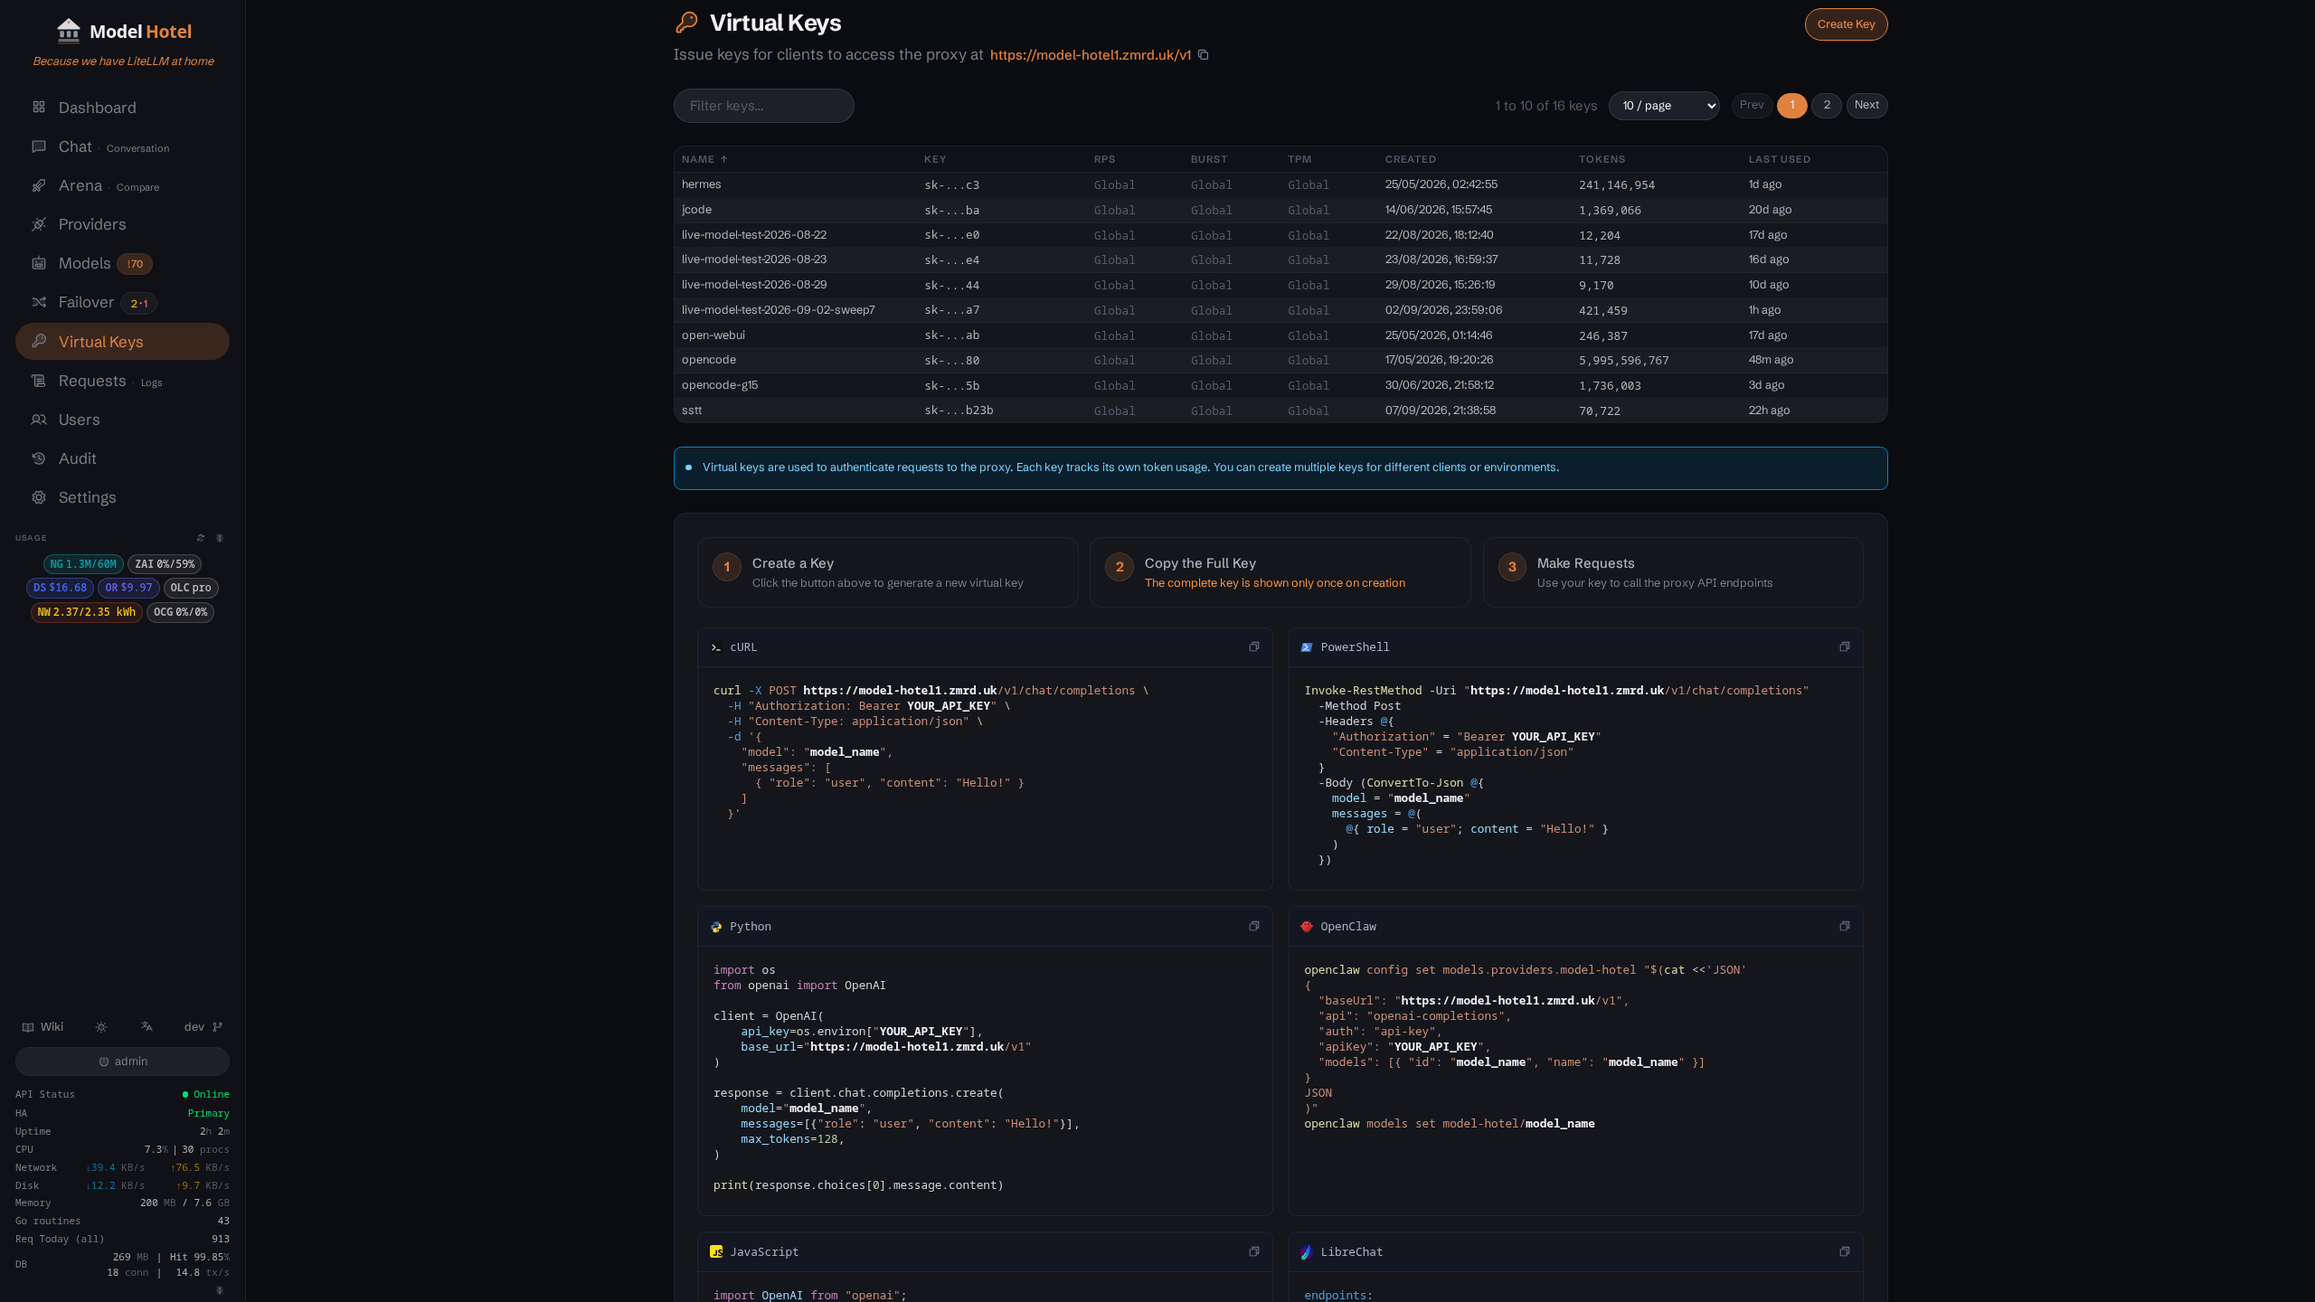
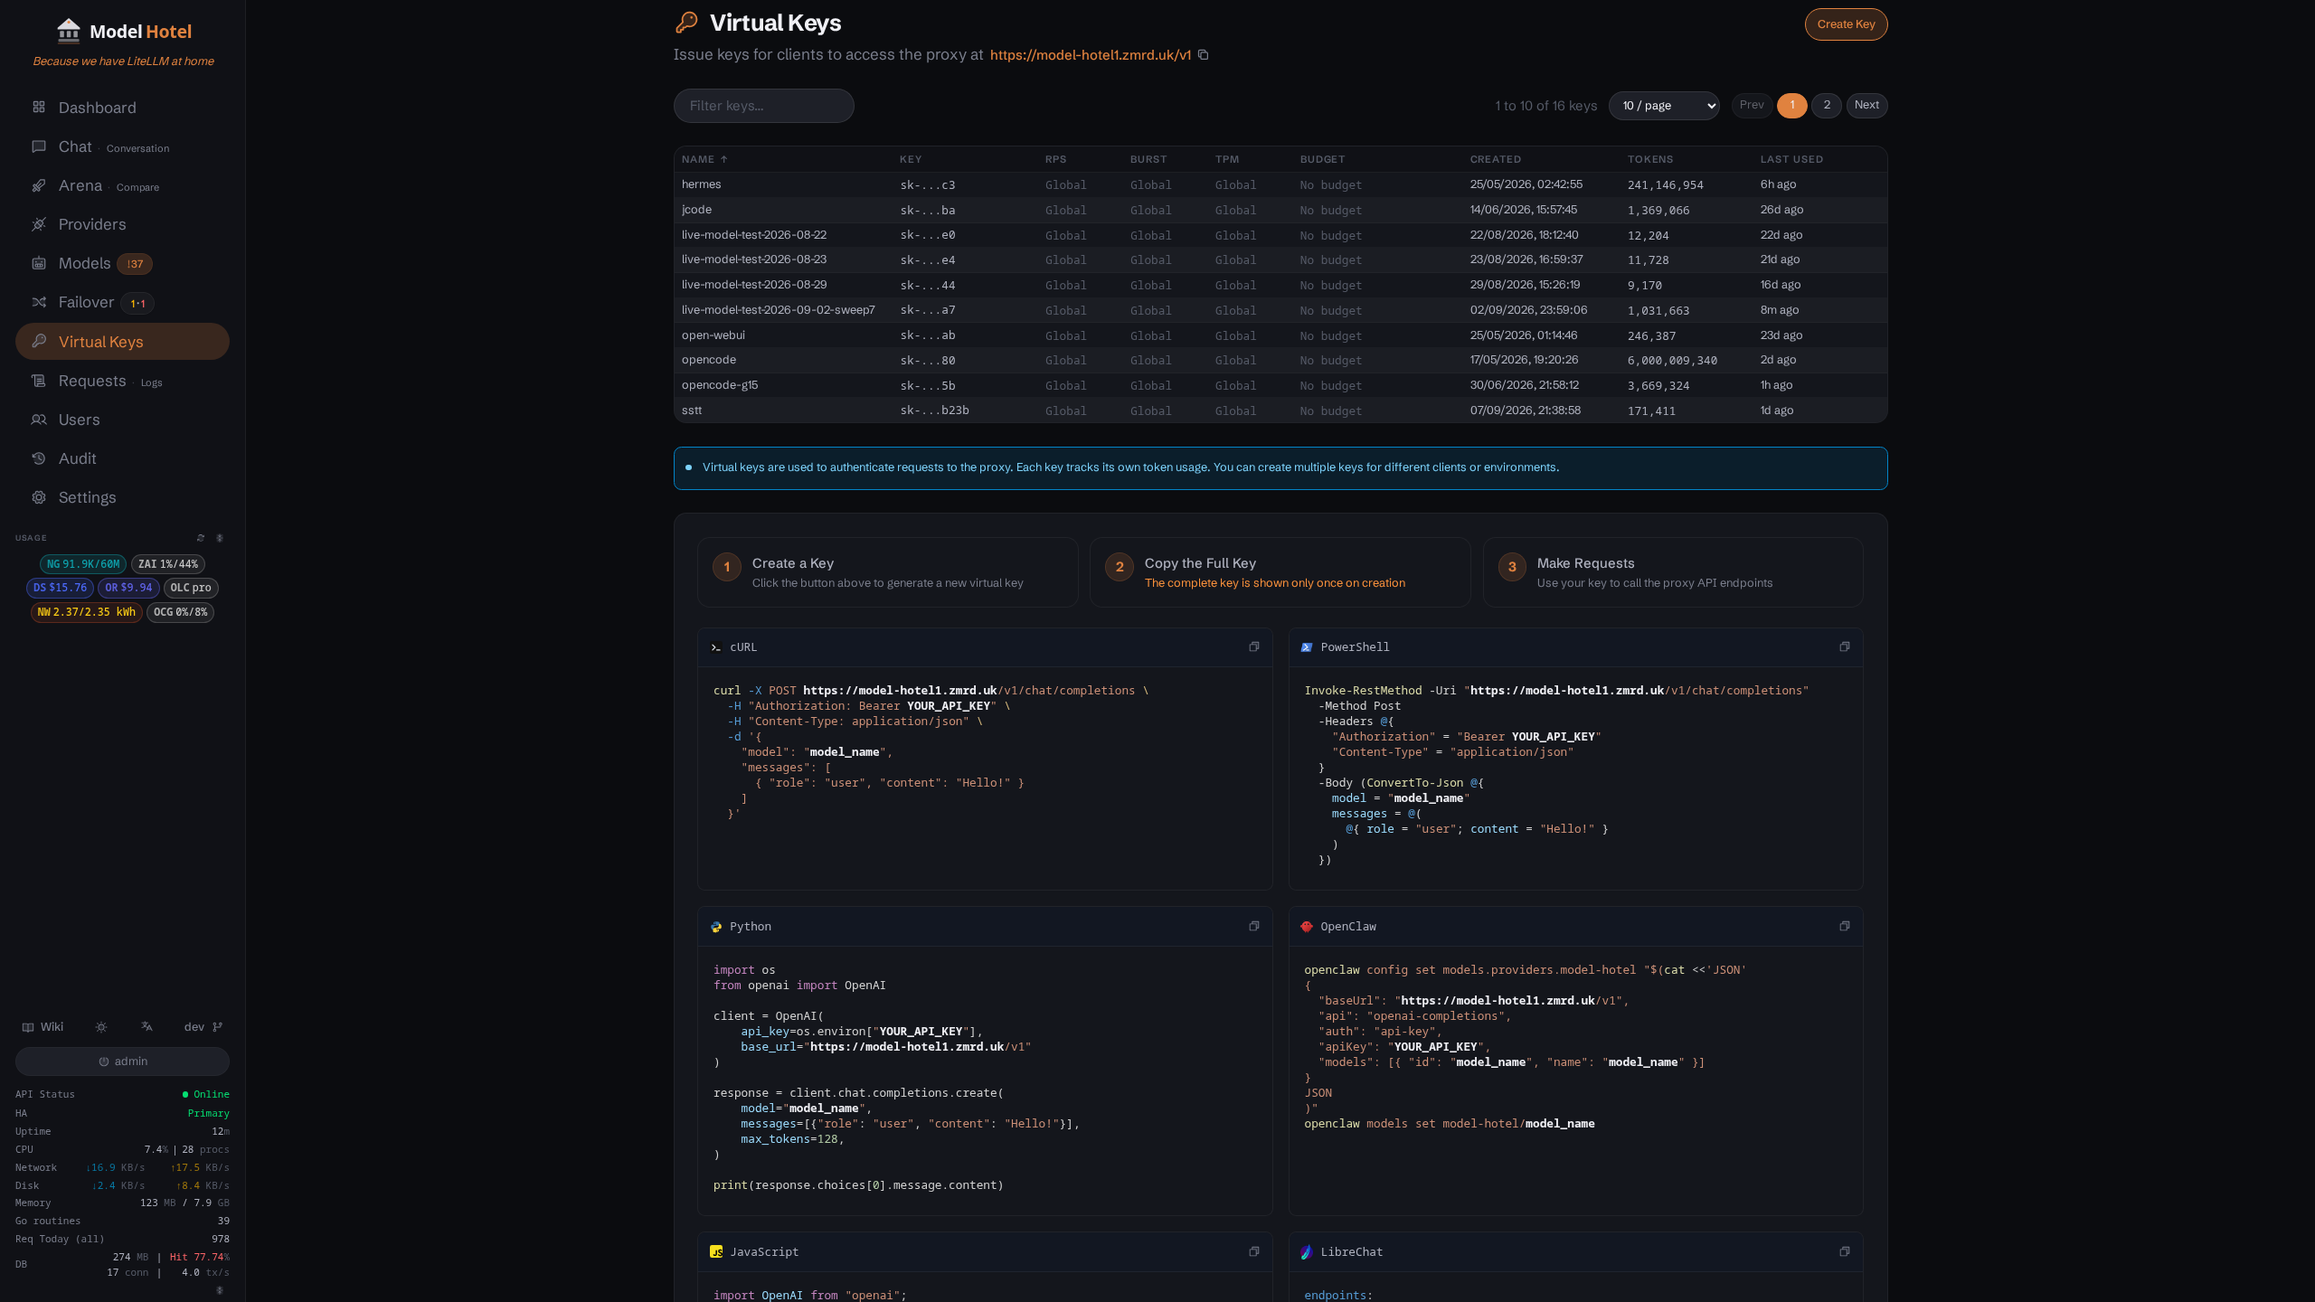
fix(web): size the keys table's budget column; document spend and budgets; show the OpenCode Go quota panel
The virtual keys table is fixed-layout inside a clipping card and its
colgroup stopped at eight columns, so the ninth (last used) fell off the
right edge once the budget column landed. A test now pins one col per
header summing to 100%. README and the Request-Logging wiki gain the
dashboard's spend view and the budgets; the NeuralWatt quota panel gives
way to OpenCode Go (NeuralWatt is scheduled off); logs, dashboard and
keys screenshots reshot.

diff --git a/web/src/pages/VirtualKeys/index.tsx b/web/src/pages/VirtualKeys/index.tsx
@@ -214,15 +214,19 @@ export function VirtualKeys() {
 			{sortedKeys.length > 0 ? (
 				<div ref={wheelPagingRef} className="ui-card overflow-hidden">
 					<table className="w-full table-fixed ui-table">
+						{/* One col per header, summing to 100%: the table is fixed-layout
+						    inside an overflow-hidden card, so a column without a col
+						    is squeezed off the right edge rather than scrolled to. */}
 						<colgroup>
-							<col className="w-[20%]" />
-							<col className="w-[14%]" />
-							<col className="w-[8%]" />
-							<col className="w-[8%]" />
-							<col className="w-[8%]" />
-							<col className="w-[16%]" />
-							<col className="w-[14%]" />
+							<col className="w-[18%]" />
 							<col className="w-[12%]" />
+							<col className="w-[7%]" />
+							<col className="w-[7%]" />
+							<col className="w-[7%]" />
+							<col className="w-[14%]" />
+							<col className="w-[13%]" />
+							<col className="w-[11%]" />
+							<col className="w-[11%]" />
 						</colgroup>
 						<thead>
 							<tr>

diff --git a/web/src/pages/VirtualKeys/__tests__/VirtualKeys.table.test.tsx b/web/src/pages/VirtualKeys/__tests__/VirtualKeys.table.test.tsx
@@ -740,6 +740,26 @@ describe("VirtualKeys", () => {
 });
 
 describe("Sort resets page", () => {
+	it("sizes every column, so none is squeezed off the fixed-layout table", async () => {
+		server.use(
+			http.get("/api/virtual-keys", () => HttpResponse.json([mockVirtualKey])),
+		);
+		renderWithProviders(<VirtualKeys />);
+		await waitFor(() => {
+			expect(screen.getByText("Test API Key")).toBeInTheDocument();
+		});
+		const table = screen.getByRole("table");
+		const cols = table.querySelectorAll("colgroup col");
+		const headers = table.querySelectorAll("thead th");
+		expect(cols).toHaveLength(headers.length);
+		const total = [...cols]
+			.map((c) =>
+				Number.parseFloat(c.className.match(/w-\[(\d+)%\]/)?.[1] ?? "0"),
+			)
+			.reduce((a, b) => a + b, 0);
+		expect(total).toBe(100);
+	});
+
 	it("resets to page 1 when sorting from page 2", async () => {
 		const keys = Array.from({ length: 25 }, (_, i) => ({
 			...mockVirtualKey,

diff --git a/README.md b/README.md
@@ -132,7 +132,7 @@ Provider health is tracked with a **circuit breaker**, keyed per (provider, mode
 After a cooldown period (default 60s), a single **HalfOpen** probe is allowed; if it succeeds the circuit closes. If it fails, the circuit re-opens with the cooldown doubled for every probe that has failed since it last closed, up to a ceiling (default 15 minutes; set the backoff limit to `0` to switch the doubling off). A circuit blocked by an exhausted provider quota is instead pinned until the quota window resets, up to a separate quota pin limit (default 24 hours, `0` to switch pinning off). State transitions are broadcast as SSE events, and the breaker can be disabled entirely in Settings. See [Failover and Hotel Routing](https://github.com/hugalafutro/model-hotel/wiki/Failover-and-Hotel-Routing) for the full breakdown.
 
 ### [<img src="docs/icons/virtualkeys.svg" width="20" height="20" style="vertical-align:middle;margin-right:6px;" alt=""> Per-Client Virtual Keys](#-per-client-virtual-keys)
-Issue separate API keys for different users or services. Each key is SHA-256 hashed before storage, so raw keys are never persisted. Track token usage per key, set per-key rate limits (requests/sec and burst) plus an optional tokens-per-minute (TPM) cap, restrict which providers a key may reach, delete a key to immediately cut off access, and never expose your real provider credentials. Keys can be created and deleted from the dashboard or the admin API.
+Issue separate API keys for different users or services. Each key is SHA-256 hashed before storage, so raw keys are never persisted. Track token usage per key, set per-key rate limits (requests/sec and burst) plus an optional tokens-per-minute (TPM) cap, give a key a dollar budget per day, week or month (requests are refused with `429` once the period's spend reaches it, and the key shows how much of it is used), restrict which providers a key may reach, delete a key to immediately cut off access, and never expose your real provider credentials. Keys can be created and deleted from the dashboard or the admin API.
 
 <p align="center">
  <img src="docs/screenshots/virtual_keys.png" alt="Virtual Keys" width="720">
@@ -161,6 +161,7 @@ Every request is logged with full latency decomposition:
 - **Total duration** (end-to-end wall time)
 - **Proxy overhead** split into request parsing, model/failover lookup, provider lookup, and key decryption
 - **Tokens per second**, prompt / completion counts
+- **Cost** in dollars, priced from the serving model's per-token prices (cache-hit tokens at the cache-hit price where the provider has one)
 
 <p align="center">
  <img src="docs/screenshots/logs.png" alt="Requests" width="720">
@@ -169,6 +170,14 @@ Every request is logged with full latency decomposition:
 </p>
 
 Streaming requests are captured as they start and updated as they finish, so you can see in-flight requests in the Logs view. The overhead breakdown helps you determine whether latency is coming from your provider or from the proxy itself.
+
+The Dashboard reads the same prices: its header toggles between tokens, requests and dollars (**T / R / $**), and in the `$` state the spend tile, the spend chart and the per-provider, per-model and per-key panels all show what the period cost. A model with no known prices meters at zero; the spend tile says how many requests went unpriced.
+
+<p align="center">
+ <img src="docs/screenshots/dashboard_spend.png" alt="Dashboard in its spend view" width="720">
+ <br>
+ <sub>Dashboard in the `$` state: spend per week, per provider, per model and per key</sub>
+</p>
 
 ### [<img src="docs/icons/discovery.svg" width="20" height="20" style="vertical-align:middle;margin-right:6px;" alt=""> Built-In Model Discovery](#-built-in-model-discovery)
 Add a provider and the service pulls the model list automatically via the provider's own API. Models are kept in sync on a schedule you control (default every 6 hours, configurable). Models that disappear from a provider's listing are disabled (never deleted) and come back automatically if the provider lists them again; manual disables are always respected. After a manual scan, a summary modal shows exactly what changed: models added, re-enabled, or disabled, any live pricing or context-length changes on existing models, plus any failover groups that were updated or deleted as a result. Changes detected by scheduled/startup background discovery instead surface as a count badge on the Models nav item; clicking the badge opens a summary of those changes and clears it. Discovery-disabled models carry a "not listed by the provider since…" tooltip on the Models page so they're easy to tell apart from manual disables. The following providers get enriched metadata beyond what the generic OpenAI-compatible endpoint returns:
@@ -202,10 +211,10 @@ Models that aren't covered by any built-in catalog are automatically enriched fr
 Every discovered model carries three classification fields with closed vocabularies. `input_modalities` lists what the model accepts (`text`, `image`, `audio`, `video`, `pdf`); `output_modalities` lists what it produces (`text`, `image`, `audio`, `video`, plus `embedding` and `rerank` for those endpoint families); and `modality` is an *endpoint class* derived from the arrays (`chat`, `embedding`, `rerank`, `image`, `video`, `tts`, or `stt`). The class is never hand-set per provider: one central deriver computes it after enrichment, so a vision chat model ("understands images") can't be confused with an image-generation model ("produces images"), and non-chat models are reliably kept out of the chat and arena pickers while remaining visible on `/v1/models` and in failover groups.
 
 ### [<img src="docs/icons/health.svg" width="20" height="20" style="vertical-align:middle;margin-right:6px;" alt=""> Model Health at a Glance](#-model-health-at-a-glance)
-Test any model from the Models page with a single click. The test sends a minimal chat completion directly to the provider and reports total duration and the actual model response, so you know the provider is alive and responsive. DeepSeek providers show live account balance; NanoGPT, Z.AI, Kimi Code, and MiniMax providers show quota and usage data; NeuralWatt providers show energy quota and credit balance (Standard plan or higher). All fetched from their respective APIs and displayed on both the provider cards and the sidebar quota panel.
+Test any model from the Models page with a single click. The test sends a minimal chat completion directly to the provider and reports total duration and the actual model response, so you know the provider is alive and responsive. DeepSeek providers show live account balance; NanoGPT, Z.AI, Kimi Code, MiniMax and OpenCode Go providers show quota and usage data. All fetched from their respective APIs and displayed on both the provider cards and the sidebar quota panel.
 
 ### [<img src="docs/icons/health.svg" width="20" height="20" style="vertical-align:middle;margin-right:6px;" alt=""> Provider Quotas & Usage](#-provider-quotas--usage)
-For providers that expose it, click a provider's quota badge (on its card or in the sidebar panel) to open a live usage breakdown - no need to leave the dashboard for the provider's billing page. **OpenRouter** shows credit balance and per-key spend; **Z.ai Coding Plan** shows its 5-hour, weekly, and MCP token quotas; **Kimi Code** shows its 5-hour and weekly quotas plus parallel-request limit and membership tier; **MiniMax** shows its 5-hour and weekly Token Plan quotas by model class; **NanoGPT** shows weekly token and daily image quotas with subscription details; **NeuralWatt** shows energy-based quota with subscription and lifetime usage. Each modal toggles between **quota used** and **quota remaining**, and refreshes on demand. Some providers surface usage without a dedicated modal - **DeepSeek** shows account balance and **Ollama Cloud** shows plan status on their cards and sidebar badges.
+For providers that expose it, click a provider's quota badge (on its card or in the sidebar panel) to open a live usage breakdown - no need to leave the dashboard for the provider's billing page. **OpenRouter** shows credit balance and per-key spend; **Z.ai Coding Plan** shows its 5-hour, weekly, and MCP token quotas; **Kimi Code** shows its 5-hour and weekly quotas plus parallel-request limit and membership tier; **MiniMax** shows its 5-hour and weekly Token Plan quotas by model class; **NanoGPT** shows weekly token and daily image quotas with subscription details; **OpenCode Go** shows its rolling 5-hour, weekly and monthly plan quotas with their reset times. Each modal toggles between **quota used** and **quota remaining**, and refreshes on demand. Some providers surface usage without a dedicated modal - **DeepSeek** shows account balance and **Ollama Cloud** shows plan status on their cards and sidebar badges.
 
 <p align="center">
   <a href="docs/screenshots/quota_openrouter.png"><img src="docs/screenshots/quota_openrouter.png" height="200" alt="OpenRouter credits & usage"></a>
@@ -214,7 +223,7 @@ For providers that expose it, click a provider's quota badge (on its card or in 
   &nbsp;&nbsp;
   <a href="docs/screenshots/quota_nanogpt.png"><img src="docs/screenshots/quota_nanogpt.png" height="200" alt="NanoGPT weekly token & image quotas"></a>
   &nbsp;&nbsp;
-  <a href="docs/screenshots/quota_neuralwatt.png"><img src="docs/screenshots/quota_neuralwatt_thumb.png" height="200" alt="NeuralWatt energy quota - click for full"></a>
+  <a href="docs/screenshots/quota_opencodego.png"><img src="docs/screenshots/quota_opencodego.png" height="200" alt="OpenCode Go plan quotas"></a>
   <br>
   <sub>Quota limits/balance/spend modals for supported providers</sub>
 </p>
@@ -299,7 +308,7 @@ Because it is self-hosted, there is no turnkey "Google login": each operator reg
 GitHub works the same way as a separate option. GitHub is OAuth2 only (no OpenID Connect, no ID token), so instead of verifying an ID token it reads the account's verified emails from the GitHub API and matches them against the same kind of allowlist: an unverified address never counts, and the account's stable numeric id and login are logged on each sign-in (source `github`). Register a GitHub OAuth App, set its Authorization callback URL to `<public base URL>/api/auth/github/callback`, and paste the Client ID and secret into Settings. A "Sign in with GitHub" button then appears alongside the SSO button. As with OIDC, the session is delivered over an HttpOnly cookie, and local login always keeps working.
 
 ### [<img src="docs/icons/users.svg" width="20" height="20" style="vertical-align:middle;margin-right:6px;" alt=""> Multi-User Access](#-multi-user-access)
-Beyond the shared admin token, you can provision named dashboard accounts that sign in with a username and password (plus their own optional TOTP second factor) on the same login screen. Two roles: **admin** sees and does everything, while **user** accounts are scoped by granular grants (Chat/Arena, Usage dashboards, Request Logs, Models, Virtual Keys) so a teammate gets exactly the access they need and nothing more. Virtual keys belong to a user, and per-account rate limits (RPS/burst/TPM) aggregate across the keys that user owns.
+Beyond the shared admin token, you can provision named dashboard accounts that sign in with a username and password (plus their own optional TOTP second factor) on the same login screen. Two roles: **admin** sees and does everything, while **user** accounts are scoped by granular grants (Chat/Arena, Usage dashboards, Request Logs, Models, Virtual Keys) so a teammate gets exactly the access they need and nothing more. Virtual keys belong to a user, and per-account rate limits (RPS/burst/TPM) and a per-account dollar budget aggregate across the keys that user owns.
 
 <p align="center">
  <img src="docs/screenshots/users.png" alt="Users page" width="720">

diff --git a/wiki/Request-Logging.md b/wiki/Request-Logging.md
@@ -233,6 +233,18 @@ Shows all proxy requests with:
 
 ![Request Logs](screenshots/logs.png)
 
+### Spend
+
+Every terminal row carries `cost_usd` (see the schema above), priced from the serving model's per-token prices at the time the row was written. Three places read it:
+
+- **The Requests table and detail modal.** A `Cost` column on the row and a `Cost` item in the detail grid, `$0.000093` for a small request. `sort_by=cost` orders the listing by it. A dash means the row has no price: the request never reached a provider, or the model it was served by has no known input or output price.
+- **The Dashboard.** The header toggles between tokens, requests and dollars (`T` / `R` / `$`). In the `$` state the spend tile sums the period, the spend chart plots it, and the provider, model and virtual-key panels show dollars instead of tokens. Hovering the spend tile says how many served requests went unpriced in the period, since those meter at zero and the total is a floor when the count is not.
+- **Budgets.** A virtual key or a user account can carry a dollar budget per calendar period; the proxy sums these rows for it and refuses with `429` once the period's spend reaches the cap. See [Dollar Budgets](Virtual-Keys#dollar-budgets).
+
+![Dashboard in the spend state](screenshots/dashboard_spend.png)
+
+Prices come from the models.dev catalog or a per-model override (see [[Configuration]]); a price edited later leaves history alone, so a row's cost is what it cost then.
+
 ### App Logs
 
 **API endpoints:** `GET /api/logs/app` (ring buffer or history), `GET /api/logs/app/cursor` (keyset scrolling), `DELETE /api/logs/app` (purge).
